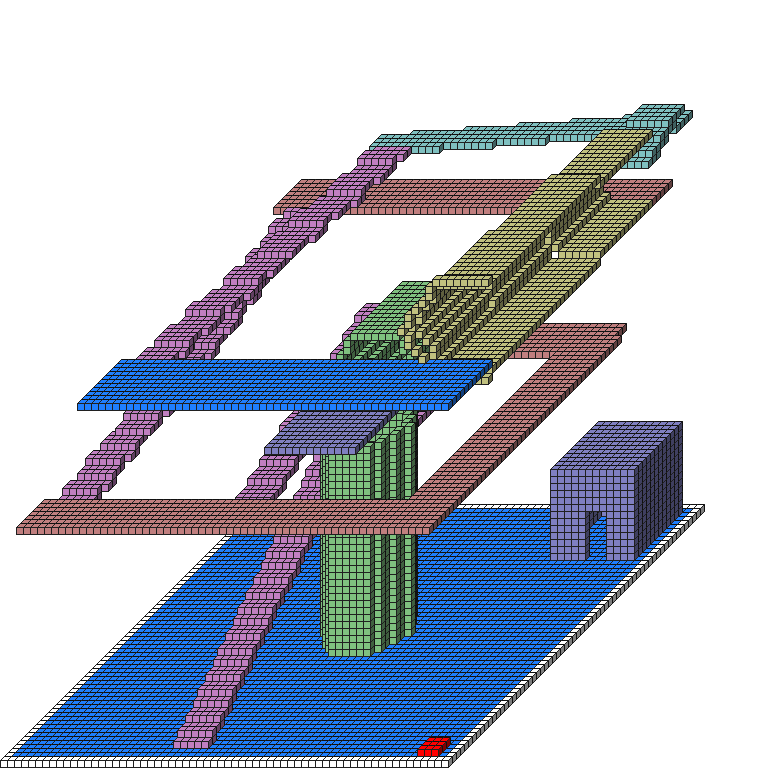
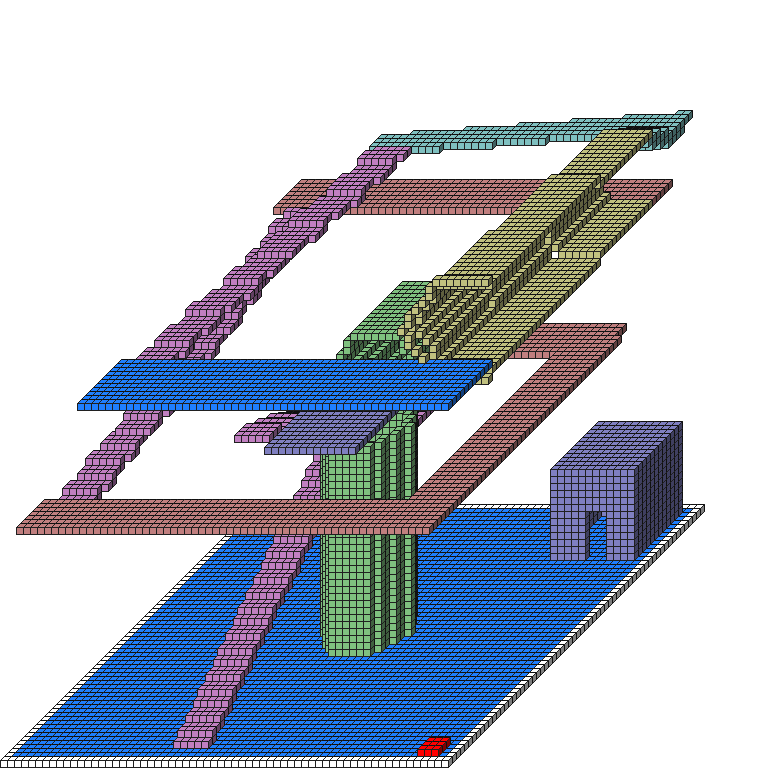
More fixed to documentation, addition of FillTriangle glyph

Changed region(s): [[0.2812, 0.5312, 0.4062, 0.6562], [0.8125, 0.125, 0.9062, 0.2188], [0.4375, 0.375, 0.5, 0.4688]]

diff --git a/Documentation/HTML/FillTriangle.html b/Documentation/HTML/FillTriangle.html
@@ -1,0 +1,5 @@
+<title>FillTriangle</title><h1>FillTriangle Glyph function</h1><h3>Description:</h3>Draw Filled Triangle &ltx1&gt &lty1&gt &ltz1&gt &ltx2&gt &lty2&gt &ltz2&gt &ltx3&gt &lty3&gt &ltz3&gt<br><img src="FillTriangle.png"><h3>Figure Code</h3><pre><a href="Genesis3D.html">Genesis3D</a> 16
+<a href="WallCube.html">WallCube</a> 37
+<a href="PenColorD4.html">PenColorD4</a> 127 127 255 255
+<a href="FillTriangle.html">FillTriangle</a> 1 1 1 15 5 10 8 15 8
+</pre><h4>Condensed</h4><pre>Genesis3D 16;WallCube 37;PenColorD4 127 127 255 255;FillTriangle 1 1 1 15 5 10 8 15 8</pre><br>

diff --git a/Documentation/HTML/index.html b/Documentation/HTML/index.html
@@ -63,6 +63,8 @@
 <img src="FillCircle3D.png"><br>
 <a href="FillRect.html">FillRect</a>
 <img src="FillRect.png"><br>
+<a href="FillTriangle.html">FillTriangle</a>
+<img src="FillTriangle.png"><br>
 <a href="FillTriangle2D.html">FillTriangle2D</a>
 <img src="FillTriangle2D.png"><br>
 <a href="FilterBlur.html">FilterBlur</a>

diff --git a/Glyphics/GlyphicsUnitTests/GlyphicsGlyphUnitTests.cs b/Glyphics/GlyphicsUnitTests/GlyphicsGlyphUnitTests.cs
@@ -404,11 +404,11 @@ namespace GlyphicsUnitTests
         [TestMethod]
         public void Glyph_Triangle()
         {
-            TestByGridComparison("Triangle", "Size3D1 4 4 3;PenColorD1 56;Triangle 1 1 0 3 3 1 2 3 2", "000000000038000000000000000000000000000000000000000038000000383800000000000000000000000000003838");
+            TestByGridComparison("Triangle", "Size3D1 4 4 3;PenColorD1 56;Triangle 1 1 0 3 3 1 2 3 2", "000000000038000000000000000000000000000000000000003838000000003800000000000000000000000000003800");
         }
 
         [TestMethod]
-        public void Glyph_FillTriangle()
+        public void Glyph_FillTriangle2D()
         {
[1 lines of base64/hex data omitted]
         }
@@ -718,6 +718,13 @@ namespace GlyphicsUnitTests
             TestByGridComparison("CornerSupports", "Size3D1 15 15 5;PenColorD1 56;FillRect 0 7 0 13 7 15;CornerSupports 0 0 0 15 15 5",
             "380000000000000000000000003800380000000000000000000000003800380000000000000000000000003800380000000000000000000000003800380000000000000000000000003800380000000000000000000000003800380000000000000000000000003800383838383838383838383838383800000000000000000000000000000000000000000000000000000000000000000000000000000000000000000000000000000000000000000000000000000000000000000000000000000000000000000000000000000000000000000000000000000000000000000000000000000000000000000000000000000000000000000000000000000000000000000000000000000000000000000000000000000000000000000000000000000000000000000000000000000000000000000000000000000000000000000000000000000000000000383838383838383838383838383800000000000000000000000000000000000000000000000000000000000000000000000000000000000000000000000000000000000000000000000000000000000000000000000000000000000000000000000000000000000000000000000000000000000000000000000000000000000000000000000000000000000000000000000000000000000000000000000000000000000000000000000000000000000000000000000000000000000000000000000000000000000000000000000000000000000000000000000000000000000000383838383838383838383838383800000000000000000000000000000000000000000000000000000000000000000000000000000000000000000000000000000000000000000000000000000000000000000000000000000000000000000000000000000000000000000000000000000000000000000000000000000000000000000000000000000000000000000000000000000000000000000000000000000000000000000000000000000000000000000000000000000000000000000000000000000000000000000000000000000000000000000000000000000000000000383838383838383838383838383800000000000000000000000000000000000000000000000000000000000000000000000000000000000000000000000000000000000000000000000000000000000000000000000000000000000000000000000000000000000000000000000000000000000000000000380000000000000000000000003800380000000000000000000000003800380000000000000000000000003800380000000000000000000000003800380000000000000000000000003800380000000000000000000000003800380000000000000000000000003800383838383838383838383838383800000000000000000000000000000000000000000000000000000000000000000000000000000000000000000000000000000000000000000000000000000000000000000000000000000000000000000000000000000000000000000000000000000000000000000000");
         }
+
+        [TestMethod]
+        public void Glyph_FillTriangle()
+        {
+            TestByGridComparison("FillTriangle", "Size3D1 4 4 3;PenColorD1 56;FillTriangle 1 1 0 3 3 1 2 3 2", "000000000038000000003800000000000000000000000000003838000000003800000000000000000000000000003800");
+        }
+
 
         //Utility to compare run to expected output
         public static void TestByGridComparison(string name, string code, string expected)

diff --git a/Glyphics/GlyphicsLibrary/Language/Language.GlyphTypes.cs b/Glyphics/GlyphicsLibrary/Language/Language.GlyphTypes.cs
@@ -181,6 +181,8 @@ namespace GlyphicsLibrary.Language
         GlyphCornerSupports = 126,
         GlyphSupports       = 127,
         GlyphUpV            = 128,
+
+        GlyphFillTriangle   = 129
     };
 
     internal static class Glyphs
@@ -340,7 +342,10 @@ namespace GlyphicsLibrary.Language
                 new CGlyph(GlyphId.GlyphWallCube      , "WallCube",           0,    1,  "f", "Put Walls on Cube <bitmask>" ), 
                 new CGlyph(GlyphId.GlyphCornerSupports, "CornerSupports",     0,    6,  "x y z X Y Z",   "Fill (cellular automata) <x> <y> <z> <x2> <y2> <z2>"),
                 new CGlyph(GlyphId.GlyphSupports      , "Supports",           0,    0,  "", "Put Supports in world" ),
-                new CGlyph(GlyphId.GlyphUpV           , "UpV",                0,    5, "# # r g b a", "UpV <reps> <search r> <search g> <search b> <search a>")
+                new CGlyph(GlyphId.GlyphUpV           , "UpV",                0,    5, "# # r g b a", "UpV <reps> <search r> <search g> <search b> <search a>"),
+#endregion
+#region RecentlyAdded
+                new CGlyph(GlyphId.GlyphFillTriangle  , "FillTriangle",       0,    9,  "x y z X Y Z # # #", "Draw Filled Triangle <x1> <y1> <z1> <x2> <y2> <z2> <x3> <y3> <z3>")
 #endregion
             };
 

diff --git a/Glyphics/Apps/DocumentationGenerator/DocumentationGenerator.cs b/Glyphics/Apps/DocumentationGenerator/DocumentationGenerator.cs
@@ -269,6 +269,7 @@ namespace DocumentationGenerator
             DocumentByCode(documentationPath, "Line", @"Genesis3D 16;WallCube 37;PenColorD4 127 127 255 255;Line 0 0 8 15 8 8");
             DocumentByCode(documentationPath, "Stairs", @"Genesis3D 16;WallCube 37;PenColorD4 127 127 255 255;Stairs 7 0 0 7 8 15 5 1 1");
             DocumentByCode(documentationPath, "Triangle", @"Genesis3D 16;WallCube 37;PenColorD4 127 127 255 255;Triangle 1 1 1 15 5 10 8 15 8");
+            DocumentByCode(documentationPath, "FillTriangle", @"Genesis3D 16;WallCube 37;PenColorD4 127 127 255 255;FillTriangle 1 1 1 15 5 10 8 15 8");
             DocumentByCode(documentationPath, "Polygon", @"Genesis3D 16;WallCube 37;PenColorD4 127 127 255 255;Polygon 7 7 7 7 5");
             DocumentByCode(documentationPath, "ArcXY", @"Genesis3D 16;WallCube 37;PenColorD4 127 127 255 255;ArcXY 7 7 7 5 0 50");
             DocumentByCode(documentationPath, "ArcYZ", @"Genesis3D 16;WallCube 37;PenColorD4 127 127 255 255;ArcYZ 7 7 7 5 0 50");

diff --git a/Glyphics/GlyphicsLibrary/Language/Language.VGPU.cs b/Glyphics/GlyphicsLibrary/Language/Language.VGPU.cs
@@ -205,6 +205,8 @@ namespace GlyphicsLibrary.Language
                 case GlyphId.GlyphStar: Painter.DrawStar(bgc, args[0], args[1], args[2], args[3]); return;
                 case GlyphId.GlyphSupports: Painter.DrawSupports(bgc); return;
                 case GlyphId.GlyphCornerSupports: Painter.DrawCorners(bgc, args[0], args[1], args[2], args[3], args[4], args[5]); return;
+
+                case GlyphId.GlyphFillTriangle: Painter.DrawFillTriangle3D(bgc, args[0], args[1], args[2], args[3], args[4], args[5], args[6], args[7], args[8]); return;
             }
         }
 

diff --git a/Glyphics/GlyphicsLibrary/Painters/Painters.Line3D.cs b/Glyphics/GlyphicsLibrary/Painters/Painters.Line3D.cs
@@ -18,9 +18,9 @@ namespace GlyphicsLibrary.Painters
         //Draw a line in 3D to Grid
         public void DrawLine3D(IByteGridContext bgc, int x1, int y1, int z1, int x2, int y2, int z2)
         {
-            MinMax(ref x1, ref x2);
-            MinMax(ref y1, ref y2);
-            MinMax(ref z1, ref z2);
+            //MinMax(ref x1, ref x2);
+            //MinMax(ref y1, ref y2);
+            //MinMax(ref z1, ref z2);
 
             int dx = x2 - x1;
             int dy = y2 - y1;

diff --git a/Glyphics/GlyphicsLibrary/Painters/Painters.Triangle.cs b/Glyphics/GlyphicsLibrary/Painters/Painters.Triangle.cs
@@ -146,7 +146,7 @@ namespace GlyphicsLibrary.Painters
 
             bgc.Pen.SetSize(1, 1, 1);
             BresenhamCallingBresnhamLine3D(bgc, x1, y1, z1, x2, y2, z2, x3, y3, z3);
-            BresenhamCallingBresnhamLine3D(bgc, x2, y2, z2, x3, y3, z3, x1, y1, z1);
+            //BresenhamCallingBresnhamLine3D(bgc, x1, y1, z1, x3, y3, z3, x2, y2, z2);
             BresenhamCallingBresnhamLine3D(bgc, x3, y3, z3, x1, y1, z1, x2, y2, z2);
         }
 

diff --git a/Glyphics/Apps/CodeScoper/CodeScoper.cs b/Glyphics/Apps/CodeScoper/CodeScoper.cs
@@ -21,7 +21,8 @@ namespace CodeScoper
     {
         static void Main()
         {
-            const string codeString = "Size3D1 8 9 1;PenColorD1 1;Text 2 2 0 65;ImgFlipY;Rect 0 0 0 7 8 1";
+            const string codeString2 = "Size3D1 8 9 1;PenColorD1 1;Text 2 2 0 65;ImgFlipY;Rect 0 0 0 7 8 1";
+            const string codeString = "Size3D1 4 4 3;PenColorD1 56;FillTriangle 1 1 0 3 3 1 2 3 2";
 
             CodeScope(codeString);
         }

diff --git a/Documentation/Markdown/FillTriangle.md b/Documentation/Markdown/FillTriangle.md
@@ -1,0 +1,15 @@
+#FillTriangle
+
+##Description: Draw Filled Triangle <x1> <y1> <z1> <x2> <y2> <z2> <x3> <y3> <z3>
+##Arguments: x y z X Y Z # # #
+
+![](FillTriangle.png)
+
+Figure Code:
+- [Genesis3D](Genesis3D.md) 16
+- [WallCube](WallCube.md) 37
+- [PenColorD4](PenColorD4.md) 127 127 255 255
+- [FillTriangle](FillTriangle.md) 1 1 1 15 5 10 8 15 8
+
+Condensed: Genesis3D 16;WallCube 37;PenColorD4 127 127 255 255;FillTriangle 1 1 1 15 5 10 8 15 8
+

diff --git a/Documentation/Markdown/README.md b/Documentation/Markdown/README.md
@@ -93,6 +93,9 @@
 ![](FillRect.png)
 [FillRect](FillRect.md)
 
+![](FillTriangle.png)
+[FillTriangle](FillTriangle.md)
+
 ![](FillTriangle2D.png)
 [FillTriangle2D](FillTriangle2D.md)
 
